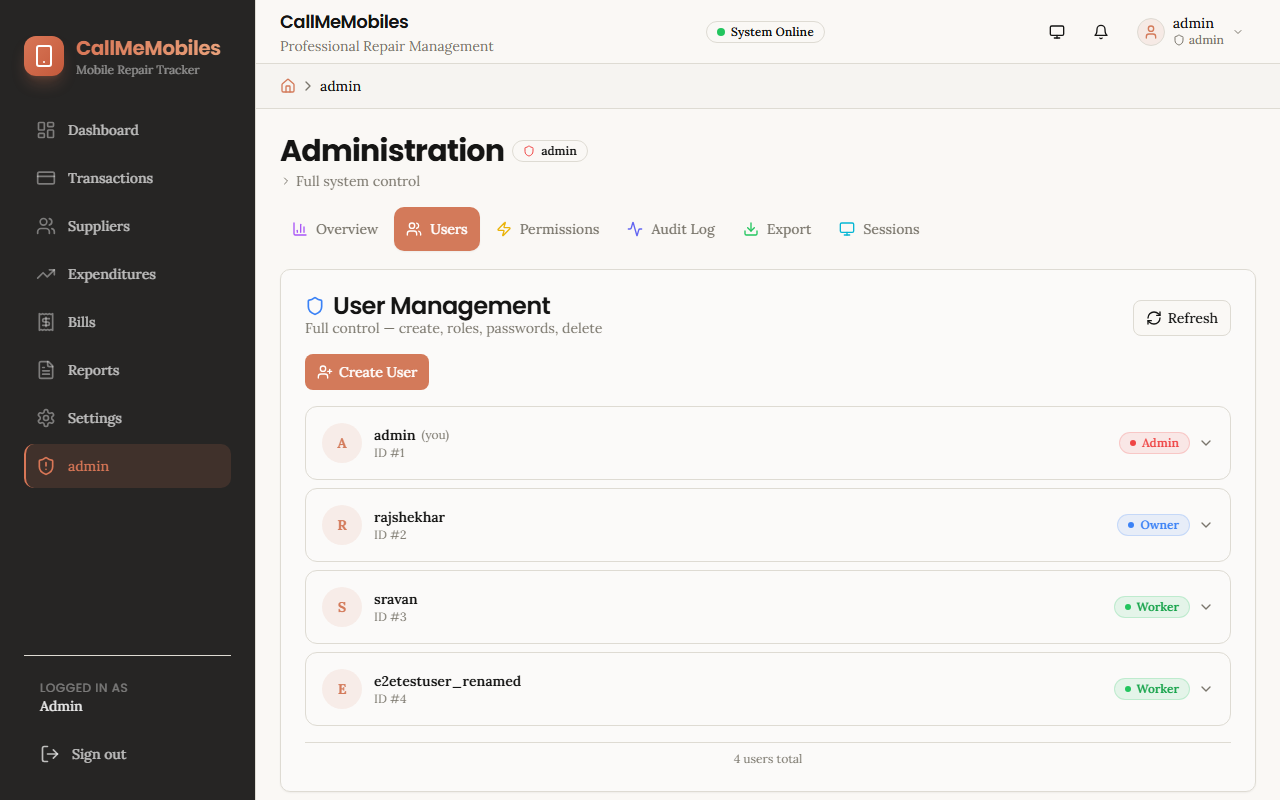
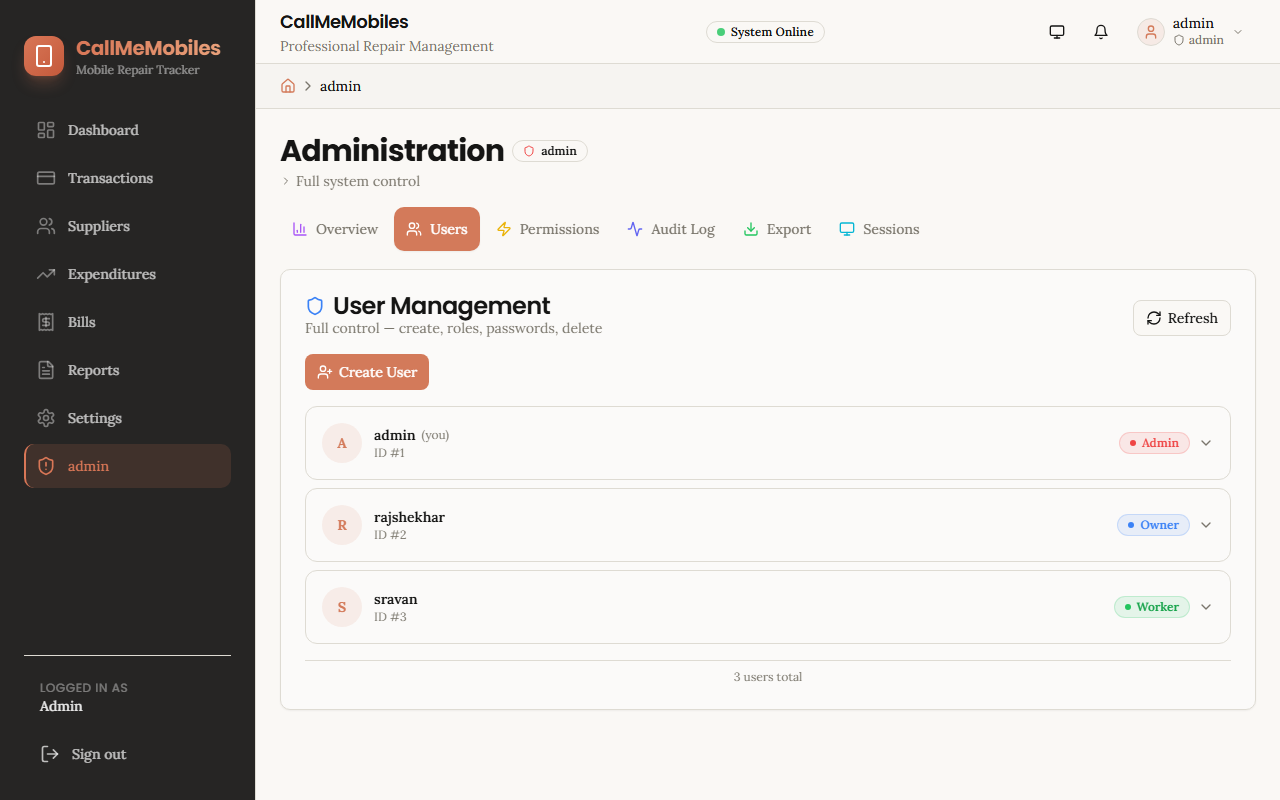
Fix admin panel dynamic backend routing for user management and all admin tabs

diff --git a/src/components/admin/AuditLogPanel.tsx b/src/components/admin/AuditLogPanel.tsx
@@ -4,7 +4,14 @@ import { Badge } from '@/components/ui/badge';
 import { Button } from '@/components/ui/button';
 import { RefreshCw, Clock } from 'lucide-react';
 
-const BASE_URL = 'https://backendmobile-4swg.onrender.com';
+const getApiUrl = () => {
+  const envBaseUrl = import.meta.env.VITE_BACKEND_URL;
+  const prodUrl = 'https://expensoo-app-gu3wg.ondigitalocean.app';
+  return envBaseUrl !== undefined && envBaseUrl !== ''
+    ? envBaseUrl
+    : (import.meta.env.PROD ? prodUrl : '');
+};
+const BASE_URL = getApiUrl();
 
 interface AuditLog {
   id: number;

diff --git a/src/components/admin/DataExportPanel.tsx b/src/components/admin/DataExportPanel.tsx
@@ -4,7 +4,14 @@ import { Button } from '@/components/ui/button';
 import { toast } from '@/hooks/use-toast';
 import { Download, Users, DollarSign, Package, Loader2 } from 'lucide-react';
 
-const BACKEND = 'https://backendmobile-4swg.onrender.com';
+const getApiUrl = () => {
+  const envBaseUrl = import.meta.env.VITE_BACKEND_URL;
+  const prodUrl = 'https://expensoo-app-gu3wg.ondigitalocean.app';
+  return envBaseUrl !== undefined && envBaseUrl !== ''
+    ? envBaseUrl
+    : (import.meta.env.PROD ? prodUrl : '');
+};
+const BACKEND = getApiUrl();
 
 interface ExportOption {
   id: string;

diff --git a/src/components/admin/SessionsPanel.tsx b/src/components/admin/SessionsPanel.tsx
@@ -5,7 +5,14 @@ import { Badge } from '@/components/ui/badge';
 import { toast } from '@/hooks/use-toast';
 import { Monitor, Smartphone, RefreshCw, X, Clock, Globe, Tablet } from 'lucide-react';
 
-const BASE_URL = 'https://backendmobile-4swg.onrender.com';
+const getApiUrl = () => {
+  const envBaseUrl = import.meta.env.VITE_BACKEND_URL;
+  const prodUrl = 'https://expensoo-app-gu3wg.ondigitalocean.app';
+  return envBaseUrl !== undefined && envBaseUrl !== ''
+    ? envBaseUrl
+    : (import.meta.env.PROD ? prodUrl : '');
+};
+const BASE_URL = getApiUrl();
 
 interface Session {
   id: string;

diff --git a/src/components/admin/SystemStatsPanel.tsx b/src/components/admin/SystemStatsPanel.tsx
@@ -6,7 +6,14 @@ import {
   RefreshCw, IndianRupee, Activity, Clock, AlertCircle
 } from 'lucide-react';
 
-const BASE = 'https://backendmobile-4swg.onrender.com';
+const getApiUrl = () => {
+  const envBaseUrl = import.meta.env.VITE_BACKEND_URL;
+  const prodUrl = 'https://expensoo-app-gu3wg.ondigitalocean.app';
+  return envBaseUrl !== undefined && envBaseUrl !== ''
+    ? envBaseUrl
+    : (import.meta.env.PROD ? prodUrl : '');
+};
+const BASE = getApiUrl();
 
 interface Stats {
   users: { total: number; admins: number; owners: number; workers: number };

diff --git a/src/components/admin/UserManagement.tsx b/src/components/admin/UserManagement.tsx
@@ -11,7 +11,14 @@ import {
 } from 'lucide-react';
 import { useAuth } from '@/contexts/AuthContext';
 
-const BASE = 'https://backendmobile-4swg.onrender.com';
+const getApiUrl = () => {
+  const envBaseUrl = import.meta.env.VITE_BACKEND_URL;
+  const prodUrl = 'https://expensoo-app-gu3wg.ondigitalocean.app';
+  return envBaseUrl !== undefined && envBaseUrl !== ''
+    ? envBaseUrl
+    : (import.meta.env.PROD ? prodUrl : '');
+};
+const BASE = getApiUrl();
 
 const getToken = () =>
   localStorage.getItem('auth_token') ??

diff --git a/pw-results/admin-human-🧑-Human-E2E-—-5325f-correctly-—-no-overflow-bug-chromium/error-context.md b/pw-results/admin-human-🧑-Human-E2E-—-5325f-correctly-—-no-overflow-bug-chromium/error-context.md
@@ -1,0 +1,186 @@
+# Instructions
+
+- Following Playwright test failed.
+- Explain why, be concise, respect Playwright best practices.
+- Provide a snippet of code with the fix, if possible.
+
+# Test info
+
+- Name: admin-human.spec.ts >> 🧑 Human E2E — Admin Full Journey >> 13 · Page scrolls correctly — no overflow bug
+- Location: e2e\admin-human.spec.ts:372:3
+
+# Error details
+
+```
+Error: expect(received).toBeGreaterThan(expected)
+
+Expected: > 0
+Received:   0
+```
+
+# Page snapshot
+
+```yaml
+- generic [ref=e3]:
+  - generic [ref=e4]:
+    - generic [ref=e6]:
+      - generic [ref=e8]:
+        - img [ref=e10]
+        - generic [ref=e12]:
+          - heading "CallMeMobiles" [level=1] [ref=e13]
+          - paragraph [ref=e14]: Mobile Repair Tracker
+      - navigation [ref=e15]:
+        - list [ref=e16]:
+          - listitem [ref=e17]:
+            - link "Dashboard" [ref=e18] [cursor=pointer]:
+              - /url: /dashboard
+              - img [ref=e19]
+              - text: Dashboard
+          - listitem [ref=e24]:
+            - link "Transactions" [ref=e25] [cursor=pointer]:
+              - /url: /transactions
+              - img [ref=e26]
+              - text: Transactions
+          - listitem [ref=e28]:
+            - link "Suppliers" [ref=e29] [cursor=pointer]:
+              - /url: /suppliers
+              - img [ref=e30]
+              - text: Suppliers
+          - listitem [ref=e35]:
+            - link "Expenditures" [ref=e36] [cursor=pointer]:
+              - /url: /expenditures
+              - img [ref=e37]
+              - text: Expenditures
+          - listitem [ref=e40]:
+            - link "Bills" [ref=e41] [cursor=pointer]:
+              - /url: /bills
+              - img [ref=e42]
+              - text: Bills
+          - listitem [ref=e45]:
+            - link "Reports" [ref=e46] [cursor=pointer]:
+              - /url: /reports
+              - img [ref=e47]
+              - text: Reports
+          - listitem [ref=e50]:
+            - link "Settings" [ref=e51] [cursor=pointer]:
+              - /url: /settings
+              - img [ref=e52]
+              - text: Settings
+          - listitem [ref=e55]:
+            - link "admin" [ref=e56] [cursor=pointer]:
+              - /url: /admin
+              - img [ref=e57]
+              - text: admin
+          - listitem [ref=e59]:
+            - generic [ref=e60]:
+              - generic [ref=e61]: Logged in as
+              - generic [ref=e62]: admin
+            - button "Sign out" [ref=e63] [cursor=pointer]:
+              - img [ref=e64]
+              - text: Sign out
+    - generic [ref=e67]:
+      - banner [ref=e68]:
+        - generic [ref=e69]:
+          - generic [ref=e71]:
+            - heading "CallMeMobiles" [level=1] [ref=e72]
+            - paragraph [ref=e73]: Professional Repair Management
+          - generic [ref=e75]: System Online
+          - generic [ref=e77]:
+            - button [ref=e79] [cursor=pointer]:
+              - img [ref=e80]
+            - button "Notifications" [ref=e82] [cursor=pointer]:
+              - img [ref=e83]
+              - generic [ref=e86]: Notifications
+            - button "admin admin" [ref=e88] [cursor=pointer]:
+              - img [ref=e90]
+              - generic [ref=e93]:
+                - generic [ref=e94]: admin
+                - generic [ref=e95]:
+                  - img [ref=e96]
+                  - text: admin
+              - img [ref=e98]
+      - navigation [ref=e102]:
+        - link [ref=e103] [cursor=pointer]:
+          - /url: /
+          - img [ref=e104]
+        - generic [ref=e107]:
+          - img [ref=e108]
+          - generic [ref=e110]: admin
+      - main [ref=e111]:
+        - generic [ref=e114]:
+          - generic [ref=e116]:
+            - generic [ref=e117]:
+              - heading "Administration" [level=1] [ref=e118]
+              - generic [ref=e119]:
+                - img [ref=e120]
+                - text: admin
+            - paragraph [ref=e122]:
+              - img [ref=e123]
+              - text: Full system control
+          - tablist [ref=e126]:
+            - tab "Overview" [ref=e127] [cursor=pointer]:
+              - img [ref=e128]
+              - generic [ref=e130]: Overview
+            - tab "Users" [active] [selected] [ref=e131] [cursor=pointer]:
+              - img [ref=e132]
+              - generic [ref=e137]: Users
+            - tab "Permissions" [ref=e138] [cursor=pointer]:
+              - img [ref=e139]
+              - generic [ref=e141]: Permissions
+            - tab "Audit Log" [ref=e142] [cursor=pointer]:
+              - img [ref=e143]
+              - generic [ref=e145]: Audit Log
+            - tab "Export" [ref=e146] [cursor=pointer]:
+              - img [ref=e147]
+              - generic [ref=e150]: Export
+            - tab "Sessions" [ref=e151] [cursor=pointer]:
+              - img [ref=e152]
+              - generic [ref=e154]: Sessions
+          - generic [ref=e156]:
+            - generic [ref=e157]:
+              - generic [ref=e158]:
+                - heading "User Management" [level=3] [ref=e159]:
+                  - img [ref=e160]
+                  - text: User Management
+                - paragraph [ref=e162]: Full control — create, roles, passwords, delete
+              - button "Refresh" [ref=e164] [cursor=pointer]:
+                - img [ref=e165]
+                - text: Refresh
+            - generic [ref=e170]:
+              - button "Create User" [ref=e171] [cursor=pointer]:
+                - img [ref=e172]
+                - text: Create User
+              - generic [ref=e175]:
+                - generic [ref=e177] [cursor=pointer]:
+                  - generic [ref=e178]:
+                    - generic [ref=e179]: a
+                    - generic [ref=e180]:
+                      - generic [ref=e181]:
+                        - text: admin
+                        - generic [ref=e182]: (you)
+                      - generic [ref=e183]: "ID #1"
+                  - generic [ref=e184]:
+                    - generic [ref=e185]: Admin
+                    - img [ref=e187]
+                - generic [ref=e190] [cursor=pointer]:
+                  - generic [ref=e191]:
+                    - generic [ref=e192]: r
+                    - generic [ref=e193]:
+                      - generic [ref=e194]: rajshekhar
+                      - generic [ref=e195]: "ID #2"
+                  - generic [ref=e196]:
+                    - generic [ref=e197]: Owner
+                    - img [ref=e199]
+                - generic [ref=e202] [cursor=pointer]:
+                  - generic [ref=e203]:
+                    - generic [ref=e204]: s
+                    - generic [ref=e205]:
+                      - generic [ref=e206]: sravan
+                      - generic [ref=e207]: "ID #3"
+                  - generic [ref=e208]:
+                    - generic [ref=e209]: Worker
+                    - img [ref=e211]
+              - paragraph [ref=e213]: 3 users total
+  - region "Notifications (F8)":
+    - list
+```